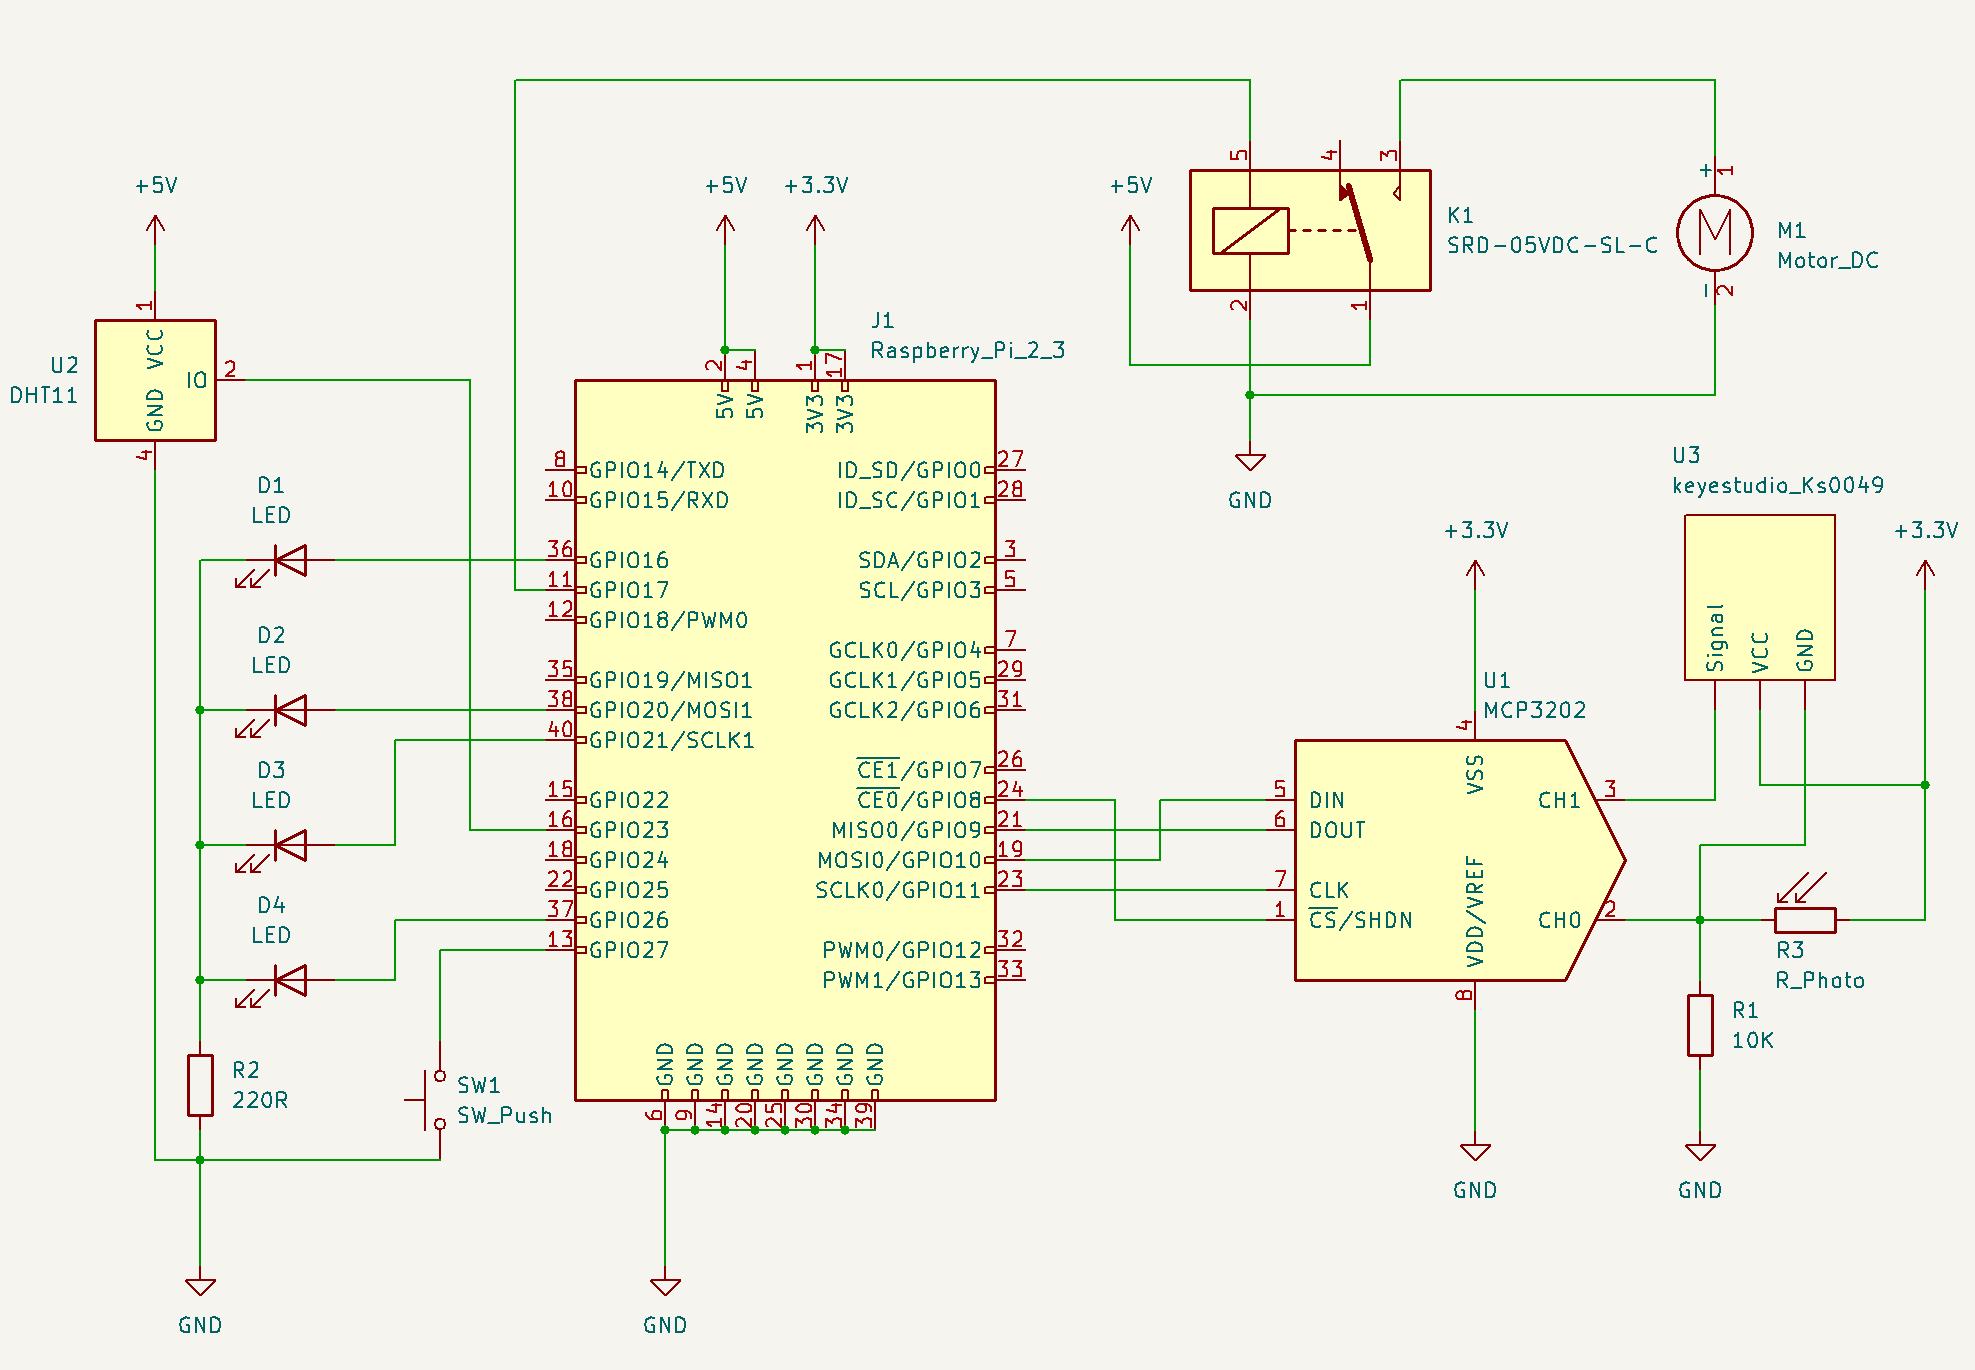
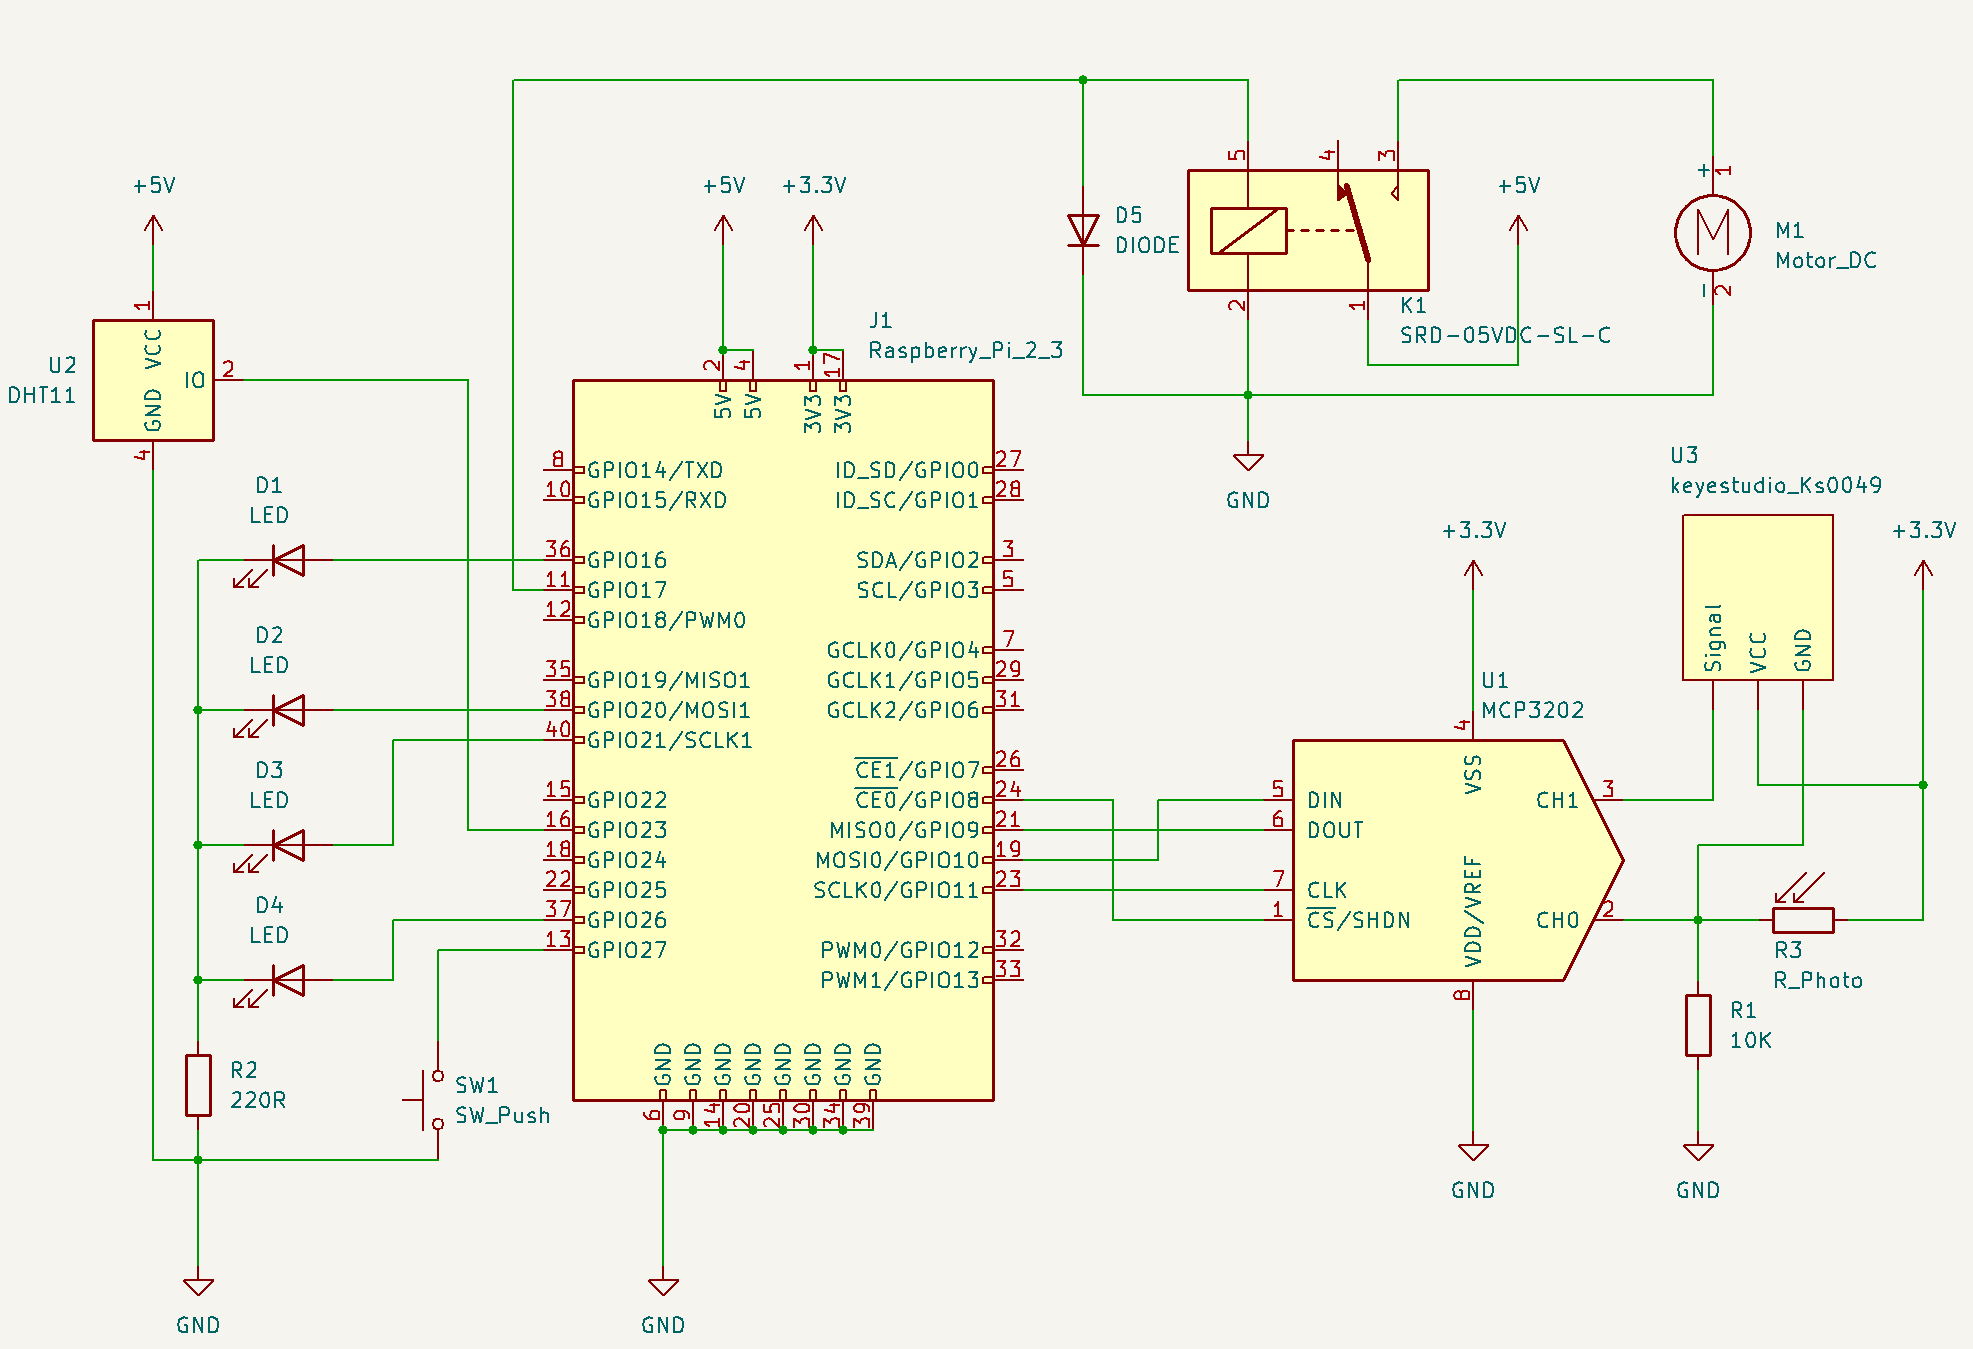
add diode to relay, add database, fix element missing error

diff --git a/index.js b/index.js
@@ -57,6 +57,8 @@ function generateTable(data) {
     document.getElementById("t_last").innerHTML = data[0].timestamp;
 
     for(let i = 0; i < data.length; i++){
+        const row = document.createElement("tr");
+
         var air_humidity  = document.createElement("td");
         const airHumidity_text = document.createTextNode(data[i].air_humidity);
         air_humidity.appendChild(airHumidity_text);
